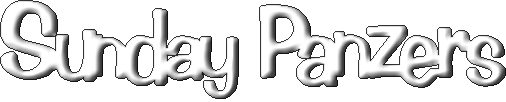
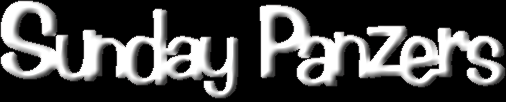
Some fixes

diff --git a/source/MenuSystem.cpp b/source/MenuSystem.cpp
@@ -115,7 +115,7 @@ void MenuSystem::update(float dt)
     }
 
     m_cloudSystem->update(dt);
-    updateFakeTank(dt);
+    updateFakeTank();
 
     // Logo animation (ang#=wrapvalue(ang#+0.15), ang2#=wrapvalue(ang2#+0.2))
     m_logoAngle = wrapValue(m_logoAngle + 0.15f);
@@ -136,7 +136,7 @@ void MenuSystem::update(float dt)
         updateShop(mx, my, clicked);
 }
 
-void MenuSystem::updateFakeTank(float dt)
+void MenuSystem::updateFakeTank()
 {
     // Exact port from menu() fake tank logic
     float dx = m_fakeTank.x - m_fakeTarget.x;
@@ -269,9 +269,9 @@ void MenuSystem::updateSelectLevelSquad(float mx, float my, bool clicked)
             som = 1;
             m_selectedTankType = 1;
             m_selectedBox = 1;
-            m_minAI = 1 + (int)(spec[m_selectedLevel].ai1 / 2.5f);
-            m_maxAI = spec[m_selectedLevel].ai2;
-            m_creditsMax = lev[m_selectedLevel].credits;
+            m_minAI = 1 + (int)(spec[m_selectedLevel - 1].ai1 / 2.5f);
+            m_maxAI = spec[m_selectedLevel - 1].ai2;
+            m_creditsMax = lev[m_selectedLevel - 1].credits;
             m_creditsUsed = 0;
             m_commander = 0;
 
@@ -754,7 +754,7 @@ void MenuSystem::drawShop()
     drawDigits(m_selectedBox, 337, 200);
 
     // Enemy tanks count
-    int enemyCount = spec[m_selectedLevel].numEnemy + 1;
+    int enemyCount = spec[m_selectedLevel - 1].numEnemy + 1;
     drawDigits(enemyCount, 605, 200);
 
     // Arrows for box selection
@@ -901,8 +901,8 @@ void MenuSystem::drawDigits(int value, float x, float y) const
 
 void MenuSystem::loadAssets()
 {
-    m_texLogo = LoadTexture("data/menu/title2.png");
-    m_texCursor = LoadTexture("data/menu/mouse.png");
+    m_texLogo = LoadTextureColorKey("data/menu/title2.png");
+    m_texCursor = LoadTextureColorKey("data/menu/mouse.png");
     m_texSLevel = LoadTexture("data/menu/slevel.png");
     m_texSSquad = LoadTexture("data/menu/ssquad.png");
     m_texArrowLeft = LoadTexture("data/menu/ar1.png");
@@ -913,7 +913,7 @@ void MenuSystem::loadAssets()
 
     for (int i = 0; i < 10; i++)
     {
-        m_texDigits[i] = LoadTexture(TextFormat("data/menu/dg%d.png", i));
+        m_texDigits[i] = LoadTextureColorKey(TextFormat("data/menu/dg%d.png", i));
     }
     for (int i = 1; i <= 10; i++)
     {
@@ -921,7 +921,10 @@ void MenuSystem::loadAssets()
     }
     for (int i = 1; i <= 20; i++)
     {
-        m_texButtons[i] = LoadTexture(TextFormat("data/menu/p%d.png", i));
+        if (i == 7 || i == 18 || i == 19)
+            m_texButtons[i] = LoadTextureColorKey(TextFormat("data/menu/p%d.png", i));
+        else
+            m_texButtons[i] = LoadTexture(TextFormat("data/menu/p%d.png", i));
     }
     for (int i = 1; i <= 8; i++)
     {
@@ -934,8 +937,7 @@ void MenuSystem::loadAssets()
     {
         for (int type = 1; type <= 8; type++)
         {
-            m_texTankSmall[squad][type] = LoadTexture(
-                TextFormat("data/menu/tasq%s%d.png", letters[squad - 1], type));
+            m_texTankSmall[squad][type] = LoadTextureColorKey(TextFormat("data/menu/tasq%s%d.png", letters[squad - 1], type));
         }
     }
 }

diff --git a/source/GameConfig.h b/source/GameConfig.h
@@ -54,6 +54,7 @@ constexpr float FIXED_DT = 1.0f / 100.0f;
 
 // === Аудио система ===
 constexpr int MAX_SOUNDS = 12;
+constexpr float NEAREST_TANK_DISTANCE_MAX = 1500.0F;   // Максимальная дистанция поиска ближайшего танка
 constexpr float DBPRO_PITCH_BASE = 22050.0f;           // В DBPro sound speed = 22050 Hz для нормы. Raylib pitch: 1.0 = оригинал = wav sample rate
 constexpr float MAX_SOUND_DISTANCE = 1500.0f;          // Максимальная дистанция для звуков (из DBPro: rl < 1500)
 constexpr float MAX_TREE_COLLISION_DISTANCE = 2500.0f; // Максимальная дистанция для столкновений (rp1 < 2500 для дерева, 1500 для танка)

diff --git a/source/AISystem.cpp b/source/AISystem.cpp
@@ -20,7 +20,7 @@ void AISystem::update()
 
     // Уменьшение hitCounter для всех танков
     // DBP: if tk#(n,52)>0 then tk#(n,52)=tk#(n,52)-1
-    for (int n = 1; n < MAX_TANKS; n++)
+    for (int n = PLAYER_MIN; n < COMBAT_MAX; n++)
     {
         TankData &tk = tankSystem->getTankMut(n);
         if (tk.type == 0)

diff --git a/source/Utils.cpp b/source/Utils.cpp
@@ -94,7 +94,7 @@ Texture2D LoadTextureColorKey(const char *path)
     int count = img.width * img.height;
     for (int i = 0; i < count; i++)
     {
-        if (pixels[i].r < 16 && pixels[i].g < 16 && pixels[i].b < 16)
+        if (pixels[i].r == 0 && pixels[i].g == 00 && pixels[i].b == 00)
             pixels[i].a = 0;
     }
 

diff --git a/source/MenuSystem.h b/source/MenuSystem.h
@@ -46,7 +46,7 @@ public:
 
 private:
     // Update
-    void updateFakeTank(float dt);
+    void updateFakeTank();
     void updateSelectLevelSquad(float mx, float my, bool clicked);
     void updateShop(float mx, float my, bool clicked);
     void finishMenu();
